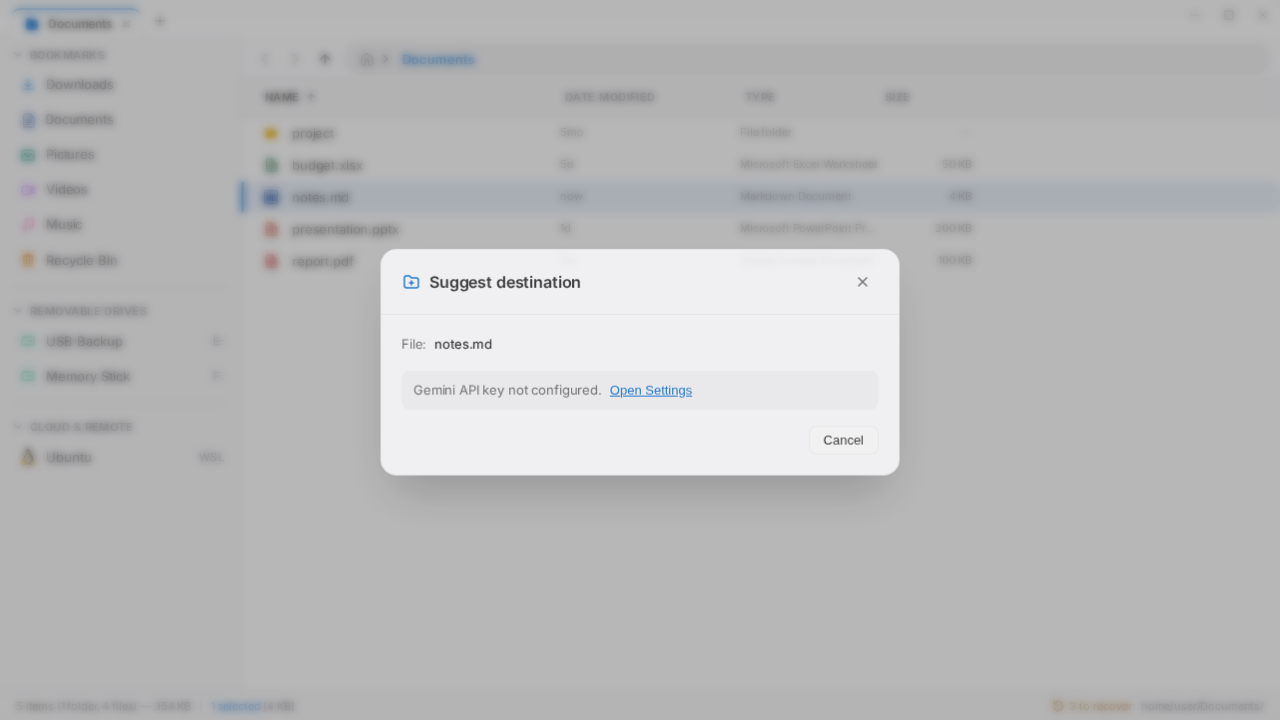
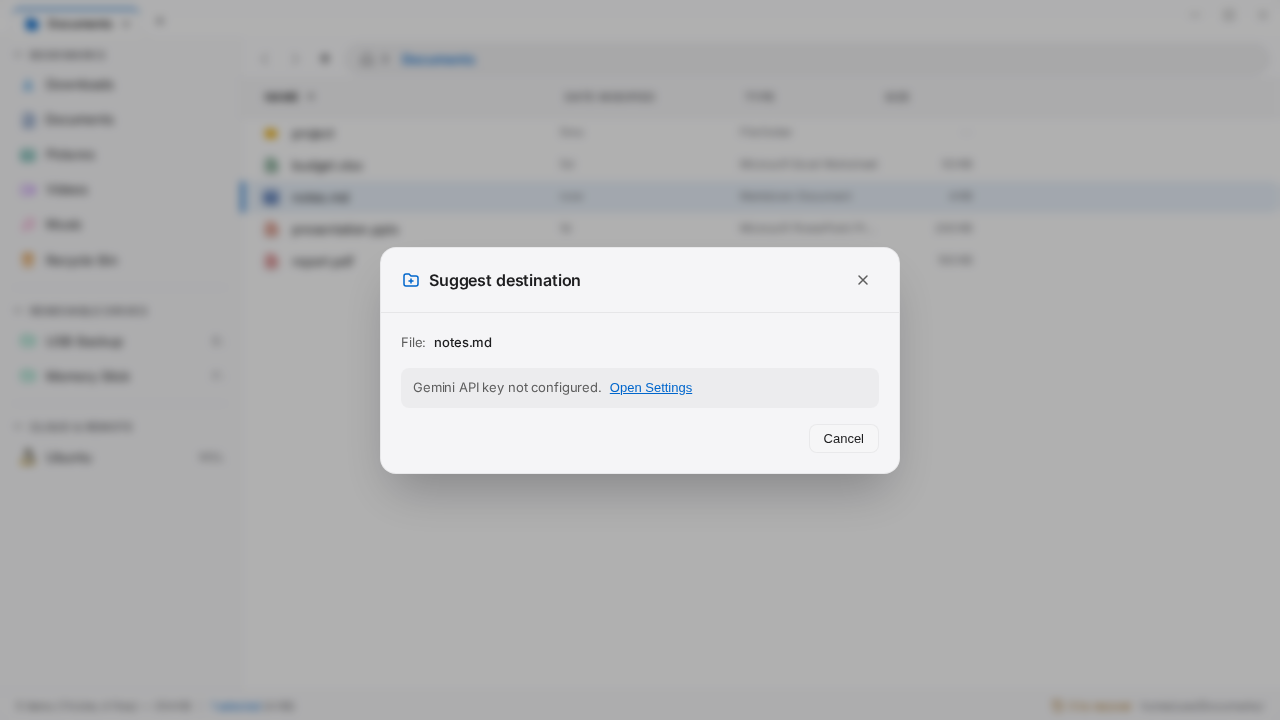
Shared plugin dialog chrome opens with a clip reveal, covering nested panels (#1080)
The host-owned plugin-dialog.css still faded/scaled every .plugin-dialog,
including the image editor's embedded AI panel, and ignored reduced motion.
A static guard pins the entrance keyframes of the shared dialog stylesheets,
and the e2e probe now also observes class changes.

Changed region(s): [[0.3125, 0.5194, 0.5625, 0.55], [0.3125, 0.3667, 0.4688, 0.4278], [0.3125, 0.4583, 0.4062, 0.4889]]

diff --git a/tests/ui/dialog-entrance-css.test.ts b/tests/ui/dialog-entrance-css.test.ts
@@ -1,0 +1,52 @@
+import { readFileSync } from "node:fs";
+import { describe, expect, it } from "vitest";
+
+/** Shared dialog chrome must open with a clip reveal: ending opacity or
+ * transform animations under the blurred modal backdrop drops WebKitGTK
+ * surfaces for a frame (#1080). Chromium e2e cannot see that dropout, so pin
+ * the keyframe contract of the host-owned stylesheets directly. */
+const COMPOSITED = /\b(opacity|transform|translate|scale|rotate|filter|backdrop-filter)\s*:/;
+
+function keyframes(css: string): Map<string, string> {
+  const blocks = new Map<string, string>();
+  const start = /@keyframes\s+([\w-]+)\s*\{/g;
+  for (let match = start.exec(css); match; match = start.exec(css)) {
+    let depth = 1;
+    let index = start.lastIndex;
+    while (depth > 0 && index < css.length) {
+      if (css[index] === "{") depth++;
+      else if (css[index] === "}") depth--;
+      index++;
+    }
+    blocks.set(match[1], css.slice(start.lastIndex, index - 1));
+  }
+  return blocks;
+}
+
+/** Keyframes named by the `animation` of the top-level rule for `card`. */
+function entrances(css: string, card: string): string[] {
+  const rule = new RegExp(`(?:^|[};/])\\s*\\${card}\\s*\\{([^}]*)\\}`, "m").exec(css);
+  const animation = rule ? /animation(?:-name)?\s*:\s*([^;]+);/.exec(rule[1]) : null;
+  return animation ? animation[1].split(/,(?![^(]*\))/).map(part => part.trim().split(/\s+/)[0]) : [];
+}
+
+describe.each([
+  ["src/lib/plugins/plugin-dialog.css", ".plugin-dialog"],
+  ["src/lib/components/modal.css", ".modal-card"],
+])("%s", (path, card) => {
+  const css = readFileSync(path, "utf8");
+  const names = entrances(css, card);
+
+  it(`gives ${card} an entrance animation defined in the same file`, () => {
+    expect(names.length).toBeGreaterThan(0);
+    for (const name of names) expect(keyframes(css).has(name)).toBe(true);
+  });
+
+  it("animates no composited property on entrance", () => {
+    for (const name of names) expect(keyframes(css).get(name) ?? "").not.toMatch(COMPOSITED);
+  });
+
+  it("disables entrance motion for reduced-motion users", () => {
+    expect(css).toMatch(/@media\s*\(prefers-reduced-motion:\s*reduce\)\s*\{[^}]*animation:\s*none/);
+  });
+});

diff --git a/src/lib/plugins/plugin-dialog.css b/src/lib/plugins/plugin-dialog.css
@@ -14,12 +14,20 @@
   border: 1px solid var(--surface-stroke);
   border-radius: var(--radius-lg);
   box-shadow: 0 25px 50px -12px rgba(0, 0, 0, 0.25);
-  animation: plugin-dialog-slide-up 150ms cubic-bezier(0, 0, 0, 1);
+  /* A clip reveal, never opacity/transform: ending composited animations
+     under the blurred modal backdrop drops WebKitGTK surfaces (#1080). This
+     also covers panels embedded in an open dialog, e.g. the image editor's
+     AI tool panel. */
+  animation: plugin-dialog-reveal 150ms cubic-bezier(0, 0, 0, 1);
 }
 
-@keyframes plugin-dialog-slide-up {
-  from { opacity: 0; transform: translateY(20px) scale(0.98); }
-  to { opacity: 1; transform: translateY(0) scale(1); }
+@keyframes plugin-dialog-reveal {
+  from { clip-path: inset(0 0 100% 0 round var(--radius-lg)); }
+  to { clip-path: inset(-80px round var(--radius-lg)); }
+}
+
+@media (prefers-reduced-motion: reduce) {
+  .plugin-dialog { animation: none; }
 }
 
 .plugin-dialog .dialog-header {

diff --git a/e2e/modal-opening.spec.ts b/e2e/modal-opening.spec.ts
@@ -23,9 +23,9 @@ async function probe(page: Page): Promise<void> {
         }
       }
     };
-    // Inspect at insertion as well as each frame: WebKit may complete an
+    // Inspect at insertion and class changes as well as each frame: WebKit may complete an
     // entrance before dispatching animation events or the next rAF.
-    new MutationObserver(inspect).observe(document.body, { childList: true, subtree: true });
+    new MutationObserver(inspect).observe(document.body, { childList: true, subtree: true, attributes: true, attributeFilter: ["class", "style"] });
     const frame = () => { inspect(); requestAnimationFrame(frame); };
     requestAnimationFrame(frame);
   });
